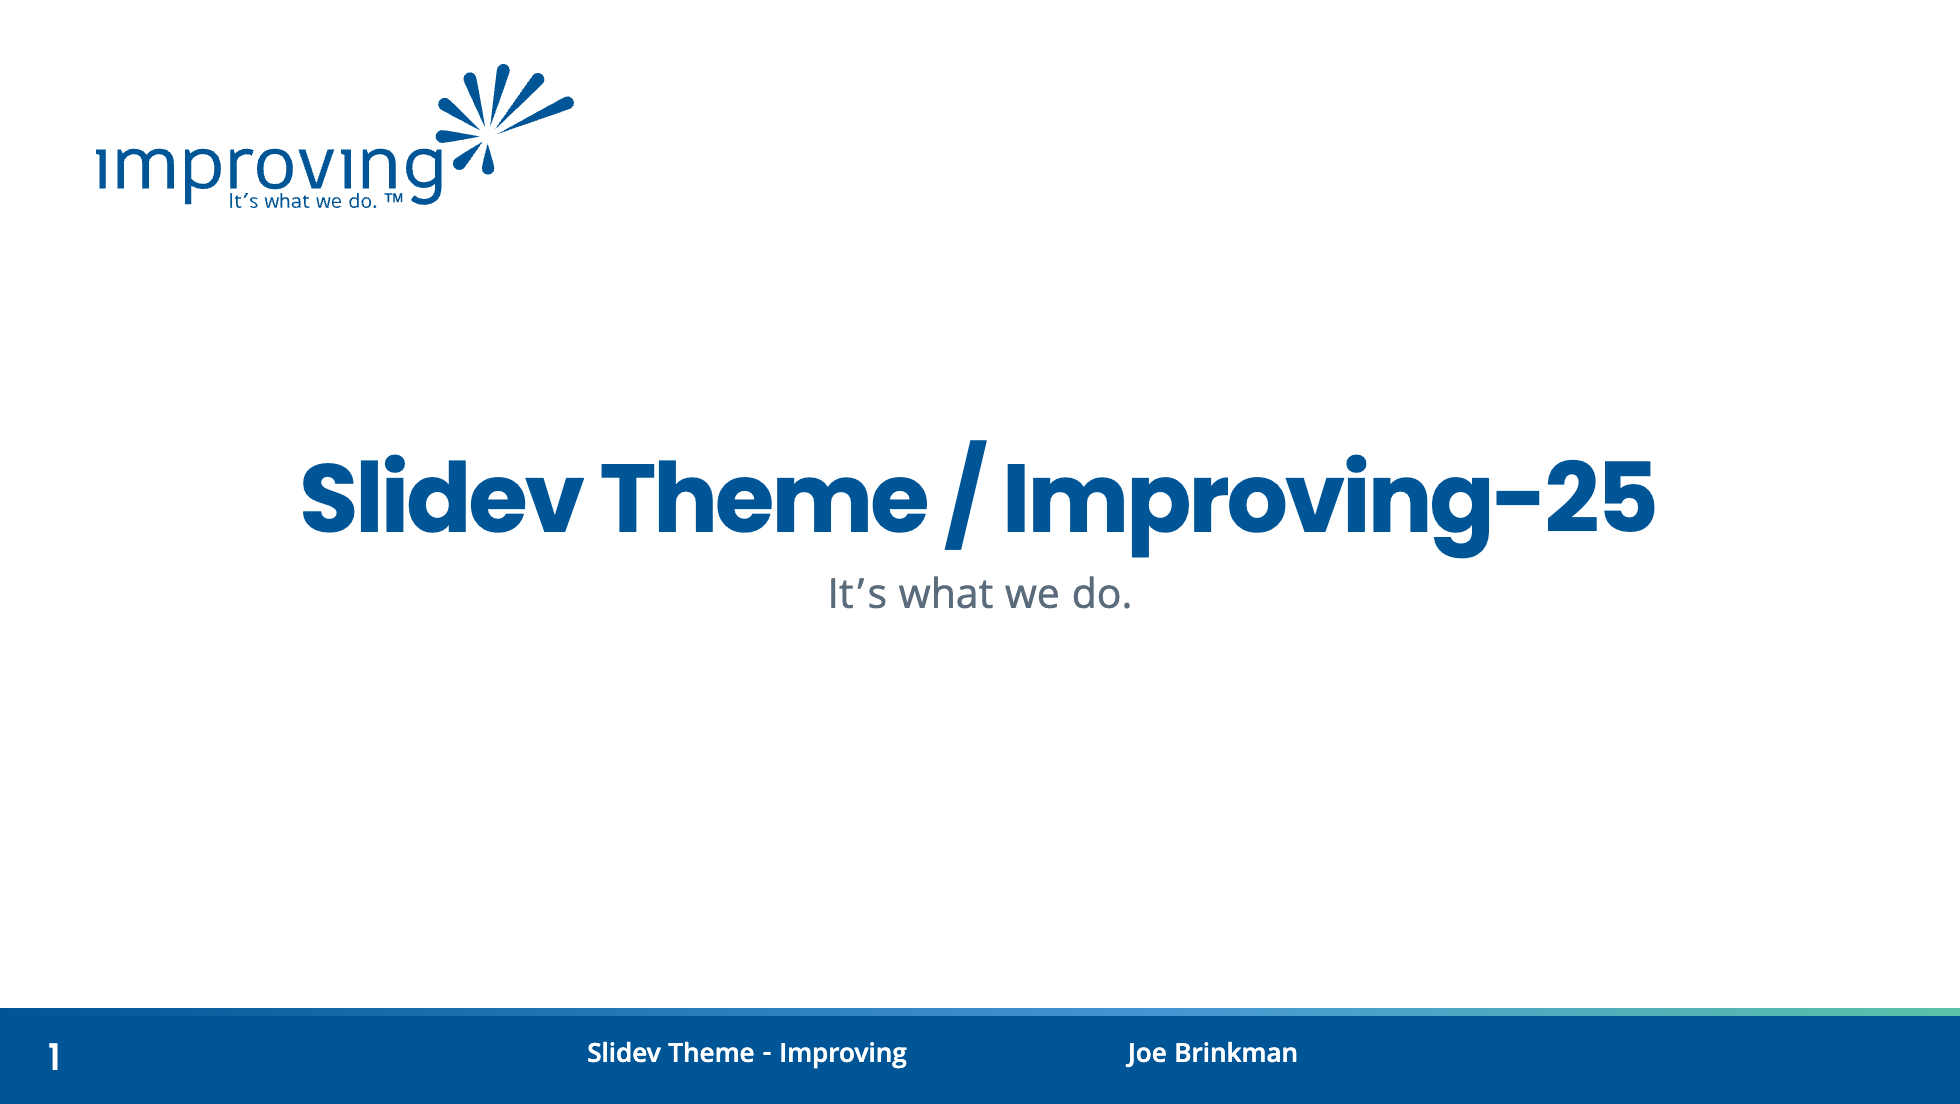
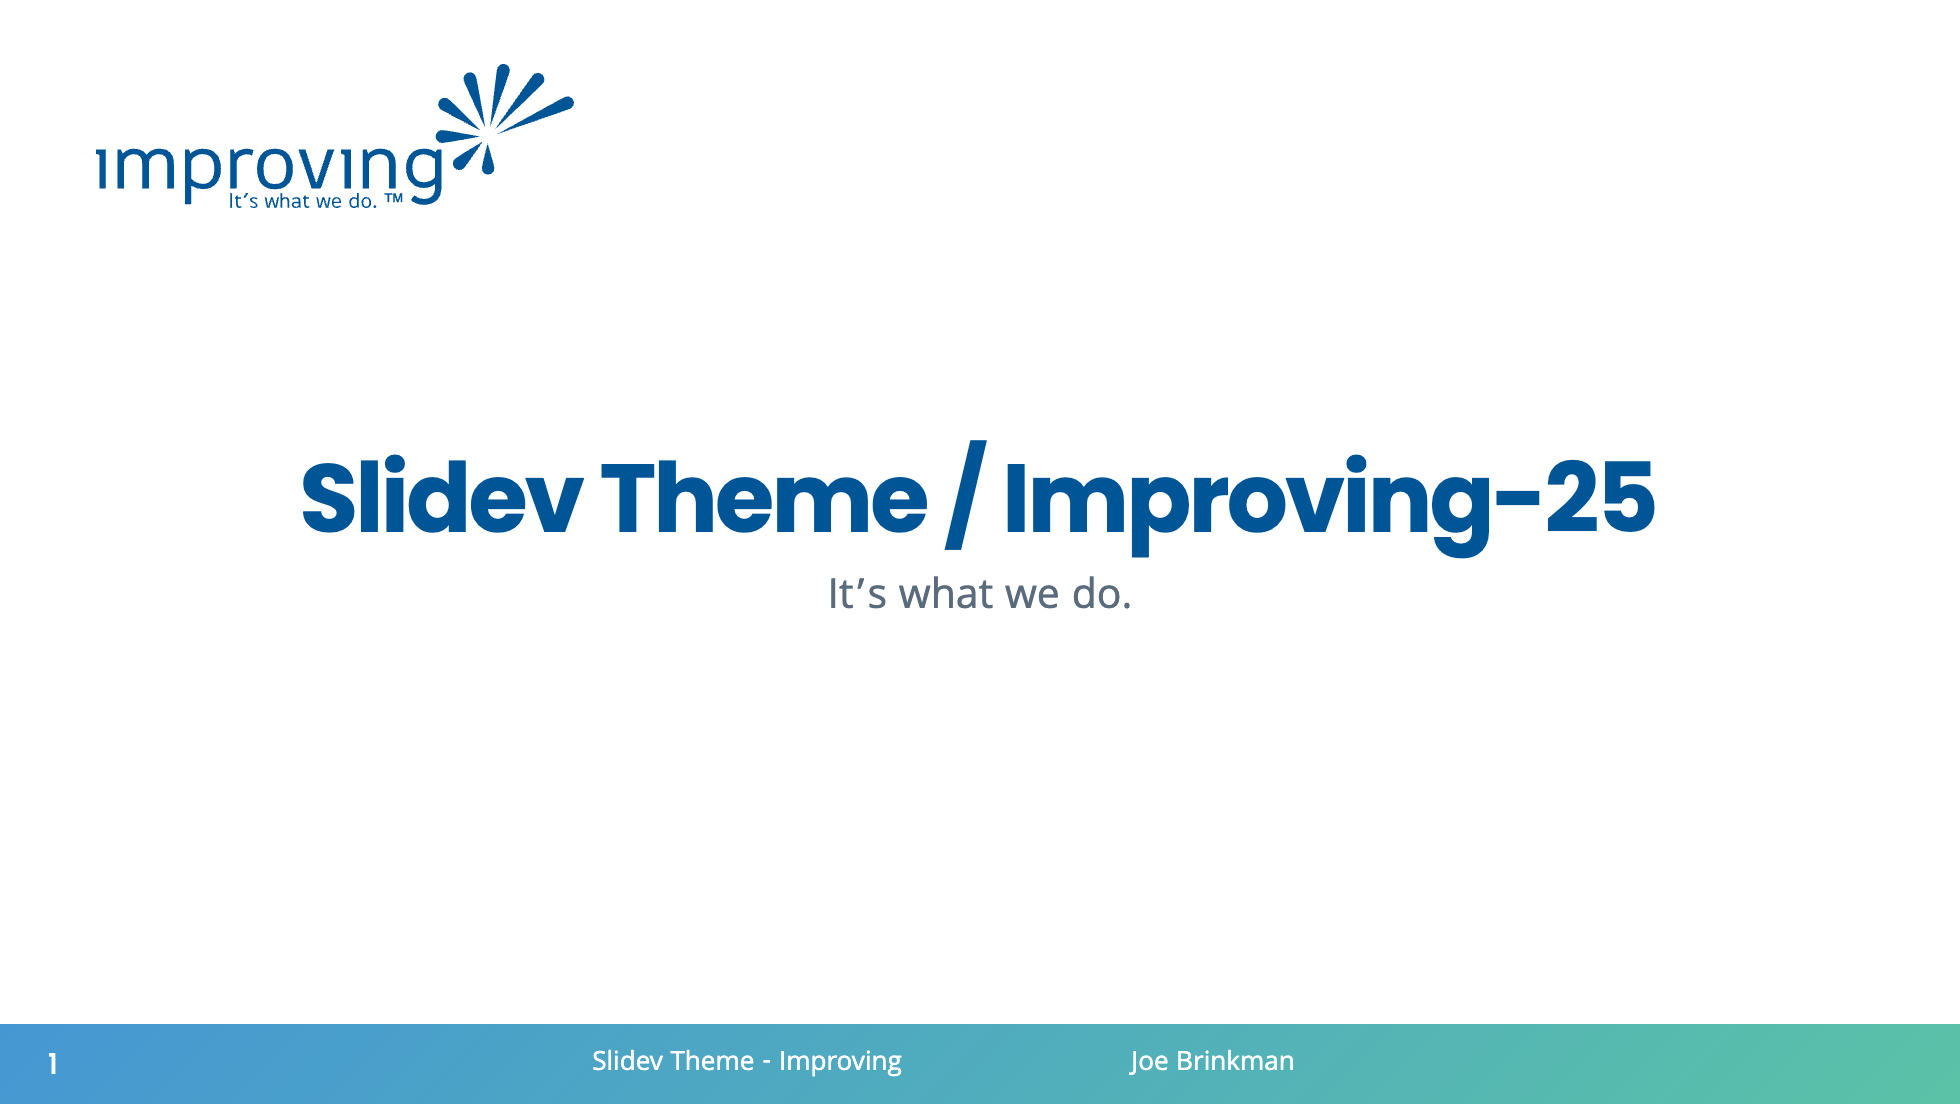
feat: align footer, type sizes and palette with the Preso-2026 template
Footer uses the template's Light Blue to Green band (gradient-fresh) with white text.
H1 is bold and body text is 16px, as in the template. The PowerPoint palette variables
and utility classes return to their exact template values (including orange #FF9300).
Regenerate example screenshots.

Changed region(s): [[0.0, 0.8931, 1.0, 1.0]]

diff --git a/styles/layout.css b/styles/layout.css
@@ -23,22 +23,22 @@
   --ds-tint: var(--color-surface-alt);
 
   /*
-   * Deprecated aliases for the former PowerPoint palette. They now resolve to
-   * the closest design system token; prefer the --improving-* and --ink-*
-   * tokens in new slides.
+   * PowerPoint template palette (Preso-2026 theme colors), kept at its exact
+   * values so existing slides do not shift. Prefer the --improving-* and
+   * --ink-* design system tokens in new slides.
    */
-  --improving-dark1: var(--ink-900);
-  --improving-dark2: var(--ink-700);
-  --improving-light1: var(--paper);
-  --improving-light2: var(--ink-100);
+  --improving-dark1: #000000;
+  --improving-dark2: #44546a;
+  --improving-light1: #ffffff;
+  --improving-light2: #e7e6e6;
   --improving-accent1: var(--improving-light-blue);
   --improving-accent2: var(--improving-blue);
-  --improving-accent3: var(--accent-orange);
+  --improving-accent3: #ff9300;
   --improving-accent4: var(--accent-green);
-  --improving-accent5: var(--ink-500);
+  --improving-accent5: #606060;
   --improving-accent6: var(--accent-orange);
-  --improving-hyperlink: var(--improving-blue);
-  --improving-hyperlink-followed: var(--improving-blue-deep);
+  --improving-hyperlink: #0563c1;
+  --improving-hyperlink-followed: #954f72;
 }
 
 /*
@@ -60,17 +60,17 @@
   --ds-tint: var(--ink-700);
 }
 
-/* Base surface and body type: Khula, body-lg */
+/* Base surface and body type: Khula 16px, as in the PowerPoint template */
 .slidev-layout {
   position: relative;
   font-family: var(--font-body);
-  font-size: var(--fs-18);
+  font-size: var(--fs-16);
   line-height: var(--lh-normal);
   background-color: var(--ds-surface);
   color: var(--ds-text);
 }
 
-/* Headings: Poppins, improving-blue, tight tracking */
+/* Headings: Poppins, improving-blue, tight tracking (h1 is bold, as in the PowerPoint template) */
 .slidev-layout h1,
 .slidev-layout h2,
 .slidev-layout h3,
@@ -86,6 +86,7 @@
 
 .slidev-layout h1 {
   font-size: var(--fs-36);
+  font-weight: var(--weight-bold);
 }
 
 .slidev-layout h2 {

diff --git a/components/ImprovingFooter.vue b/components/ImprovingFooter.vue
@@ -1,5 +1,5 @@
 <template>
-    <div v-if="showFooter" class="improving-footer fixed bottom-0 left-0 right-0 h-12 z-10">
+    <div v-if="showFooter" class="improving-footer fixed bottom-0 left-0 right-0 h-10 z-10">
         <div class="footer-content grid grid-cols-4 h-full px-6">
             <!-- Column 1: Page Number -->
             <div class="flex items-center page-number">
@@ -36,7 +36,7 @@
 
             <!-- Column 4: Logo -->
             <div class="flex items-center justify-end">
-                <img v-if="showLogo" :src="logoSrc" alt="Improving" class="logo h-9 w-auto"
+                <img v-if="showLogo" :src="logoSrc" alt="Improving" class="logo h-8 w-auto"
                     :class="{ 'brightness-0 invert': hasCustomLogo }" />
             </div>
         </div>
@@ -99,31 +99,21 @@ const showFooter = computed(() =>
 </script>
 
 <style scoped>
-/* improving-blue ground, paper text; the approved gradient-deep marks the top edge */
+/* Light Blue to Green band, as in the PowerPoint template: gradient-fresh with paper text */
 .improving-footer {
-    background: var(--improving-blue);
+    background: var(--gradient-fresh);
     color: var(--paper);
     font-family: var(--font-body);
 }
 
-.improving-footer::before {
-    content: '';
-    position: absolute;
-    top: 0;
-    left: 0;
-    right: 0;
-    height: var(--s-1);
-    background: var(--gradient-deep);
-}
-
 .page-number {
     font-family: var(--font-display);
-    font-size: var(--fs-18);
+    font-size: var(--fs-14);
     font-weight: var(--weight-medium);
 }
 
 .footer-label {
     font-size: var(--fs-14);
-    font-weight: var(--weight-semibold);
+    font-weight: var(--weight-medium);
 }
 </style>

diff --git a/README.md b/README.md
@@ -59,7 +59,7 @@ A comprehensive footer component that displays:
 - **Global title** - Presentation title from frontmatter
 - **Global author** - Author name from frontmatter  
 - **Company logo** - Improving logo with custom logo support
-- **Brand band** - Improving Blue with white text and the knockout logo, edged with the approved deep gradient
+- **Brand band** - The template's Light Blue to Green band (the approved fresh gradient) with white text and the knockout logo
 
 #### Footer Configuration
 Control footer elements via frontmatter:
@@ -79,7 +79,7 @@ customLogo: './logo.svg' # Custom logo path (optional)
 
 ### Design system
 
-Styles are generated from the Improving Design System tokens in `styles/tokens.css`, which also carries the font faces. Slide CSS reads those variables and never hard-codes brand values.
+The theme combines the Improving Design System with the official PowerPoint template (Preso-2026): the footer band, title and body type sizes and the template palette come from the template, and tokens, logos and components come from the design system. Styles are generated from the Design System tokens in `styles/tokens.css`, which also carries the font faces. Slide CSS reads those variables and never hard-codes brand values.
 
 ### Color
 
@@ -89,12 +89,12 @@ Styles are generated from the Improving Design System tokens in `styles/tokens.c
 - **Gradients**: only `gradient-deep` and `gradient-fresh` are approved
 - **Utility classes**: `text-improving-blue`, `bg-accent-green`, `bg-ink-100`, `bg-gradient-deep` and the rest of the design system palette
 - **Dark mode**: the design system defines a light theme only. Dark mode is derived from the same tokens (`ink-900` ground, Light Blue headings and links)
-- **Deprecated**: the former PowerPoint palette (`--improving-accent1` to `--improving-accent6`, `text-improving-accent*` and `bg-improving-accent*`) still works and now resolves to the nearest design system token
+- **PowerPoint template palette**: `--improving-dark1`, `--improving-accent1` to `--improving-accent6` and the matching `text-improving-*` and `bg-improving-*` classes keep the exact values from the official Preso-2026 template, including orange `#FF9300`
 
 ### Typography
 
-- **Headings**: [Poppins](https://fonts.google.com/specimen/Poppins) in Improving Blue, with tight tracking. `h5` and `h6` render as capitalized eyebrows
-- **Body**: [Khula](https://fonts.google.com/specimen/Khula) at 18px in Ink 900
+- **Headings**: [Poppins](https://fonts.google.com/specimen/Poppins) in Improving Blue, with tight tracking; `h1` is bold, as in the PowerPoint template. `h5` and `h6` render as capitalized eyebrows
+- **Body**: [Khula](https://fonts.google.com/specimen/Khula) at 16px in Ink 900
 - **Cover**: Poppins bold at 48px
 - **Links**: Improving Blue, underlined, Light Blue on hover
 - **Fonts are bundled**, so slides render and export offline. Only the code font (Fira Code) loads from Google Fonts

diff --git a/example.md b/example.md
@@ -168,7 +168,7 @@ customLogo: "./my-logo.svg" # Use custom logo
 
 ## Poppins for titles, Khula for text
 
-Headings are Poppins in Improving Blue. Body copy is Khula in Ink 900, set at 18px. Use sentence case for headlines, and reserve capitals for short eyebrows.
+Headings are Poppins in Improving Blue. Body copy is Khula in Ink 900, set at 16px. Use sentence case for headlines, and reserve capitals for short eyebrows.
 
 ### Sub-heading in Poppins medium
 
